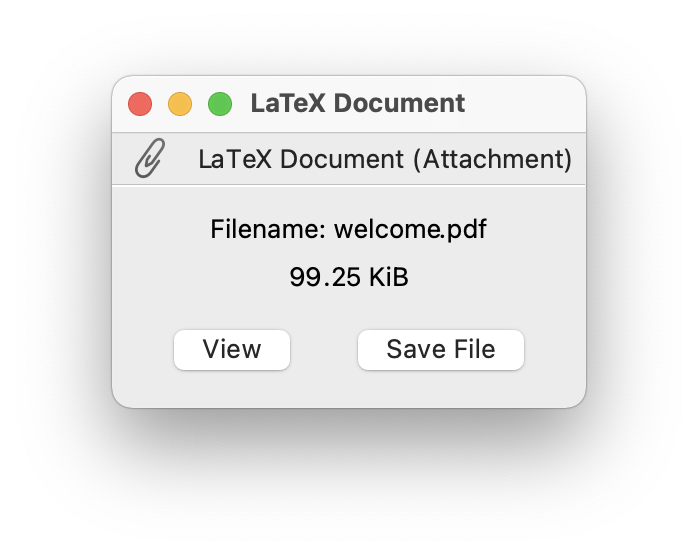
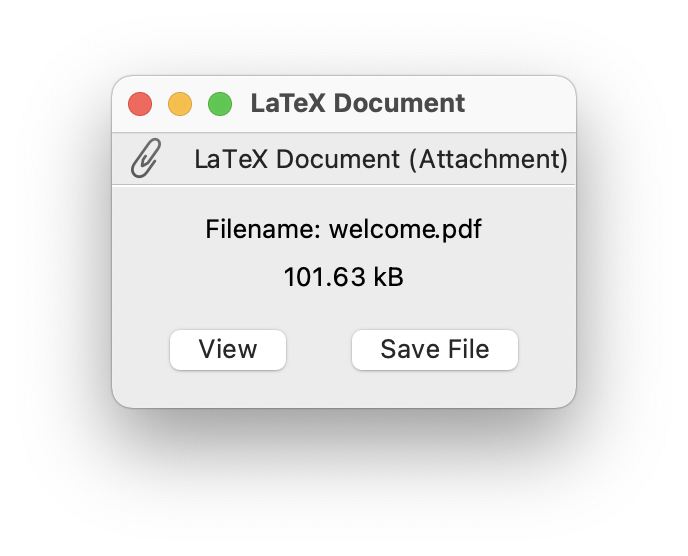
Use SI units for file size when showing attachments.

diff --git a/qtui/src/packets/attachmentui.cpp b/qtui/src/packets/attachmentui.cpp
@@ -128,7 +128,8 @@ void AttachmentUI::refresh() {
 
 #if QT_VERSION >= QT_VERSION_CHECK(5,10,0)
         QLocale locale = ui->locale();
-        size->setText(locale.formattedDataSize(attachment->size()));
+        size->setText(locale.formattedDataSize(attachment->size(),
+            2 /* precision */, QLocale::DataSizeSIFormat));
 #else
         // Just write something brutal, since almost everyone should
         // have Qt 5.10 or above by now.  Even debian buster had Qt 5.11.
